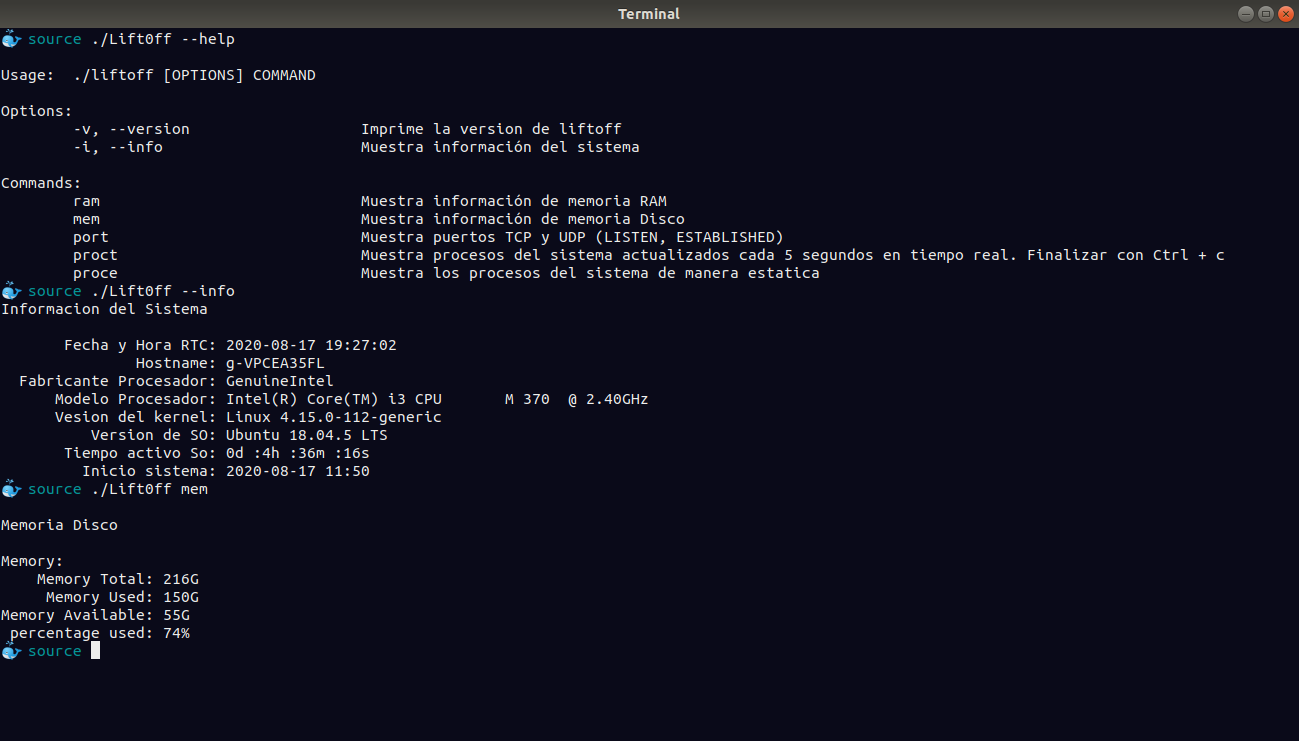
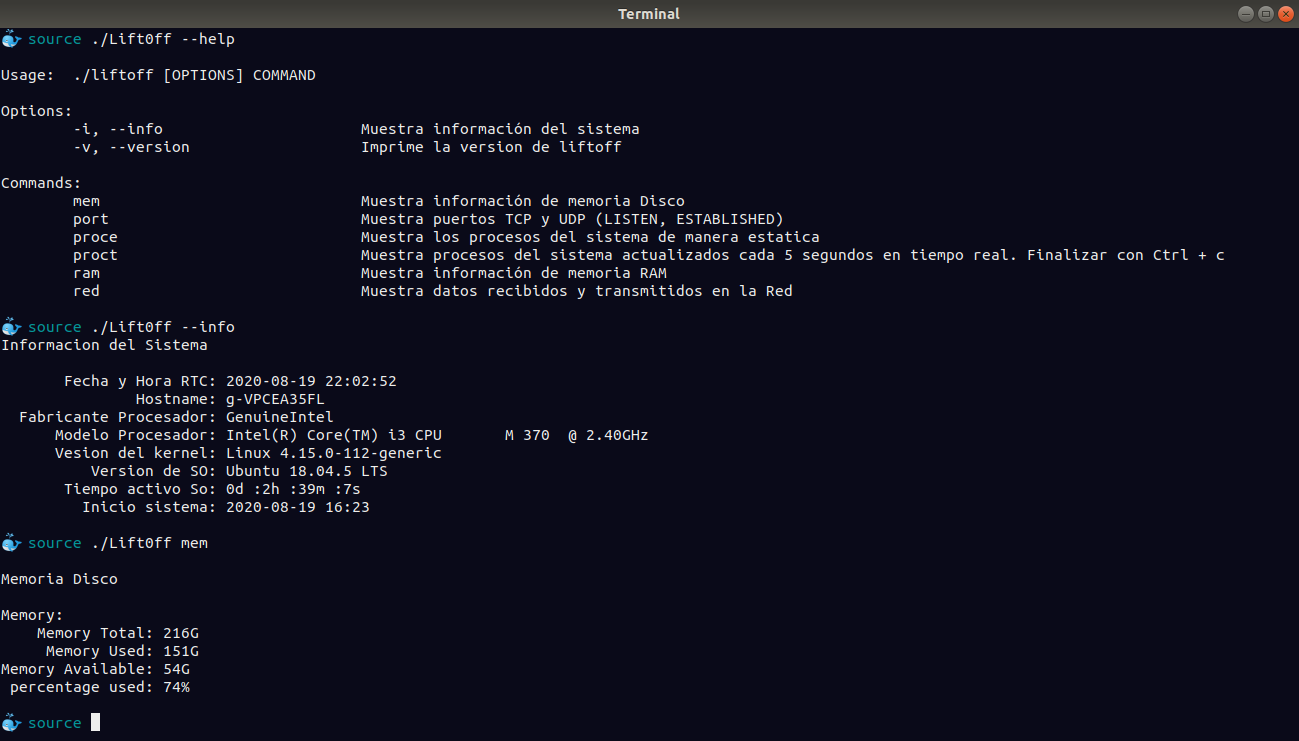
Agregue funcionalidad para mostrar los datos recibidos y enviados por la red, ademas actualice el archivo README.md

diff --git a/source/Lift0ff.go b/source/Lift0ff.go
@@ -2,11 +2,17 @@ package main
 
 import (
 	"bufio"
+	"container/list"
 	"fmt"
 	"math"
 	"os"
 	"os/exec"
+	"reflect"
+	"regexp"
 	"strings"
+
+	"github.com/fatih/color"
+	"github.com/rodaine/table"
 )
 
 func execComand(com *exec.Cmd) {
@@ -180,6 +186,48 @@ func memDisk() (string, string, string, string) {
 	return m2, m3, m4, m5
 }
 
+func networkData() *list.List {
+	n1, n2, n3, n4, n5, n6, n7, n8 := "", "", "", "", "", "", "", ""
+	listaRed := list.New()
+	red := make([]string, 9)
+	file, err := os.Open("/proc/net/dev")
+	if err != nil {
+		fmt.Println(err)
+	}
+	defer file.Close()
+	scanner := bufio.NewScanner(file)
+	for i := 0; scanner.Scan() == true; i++ {
+		if i > 1 {
+			ndata := strings.TrimSpace(scanner.Text())
+			space := regexp.MustCompile(`\s+`)
+			noSpaces := space.ReplaceAllString(ndata, " ")
+			netData := strings.Split(noSpaces, " ")
+
+			interfaz := netData[0:1]
+			download := netData[1:5]
+			upload := netData[9:13]
+
+			intfz := strings.Join(interfaz, "")
+			intfz = intfz[:len(intfz)-1]
+			downl := strings.Join(download, " ")
+			upl := strings.Join(upload, " ")
+
+			_, er1 := fmt.Sscanf(downl, "%s %s %s %s", &n1, &n2, &n3, &n4)
+			if er1 != nil {
+				fmt.Println(er1)
+			}
+			_, er2 := fmt.Sscanf(upl, "%s %s %s %s", &n5, &n6, &n7, &n8)
+			if er2 != nil {
+				fmt.Println(er2)
+			}
+			red[0], red[1], red[2], red[3], red[4], red[5], red[6], red[7], red[8] = intfz, n1, n2, n3, n4, n5, n6, n7, n8
+			listaRed.PushBack(red)
+			red = []string{"", "", "", "", "", "", "", "", ""}
+		}
+	}
+	return listaRed
+}
+
 func main() {
 	argsConProg := os.Args
 	if len(argsConProg) == 1 {
@@ -191,22 +239,15 @@ func main() {
 	case "-h", "--help":
 		fmt.Println("\nUsage:	./liftoff [OPTIONS] COMMAND")
 		fmt.Println("\nOptions:")
-		fmt.Println("	-v, --version			Imprime la version de liftoff")
 		fmt.Println("	-i, --info			Muestra información del sistema")
+		fmt.Println("	-v, --version			Imprime la version de liftoff")
 		fmt.Println("\nCommands:")
-		fmt.Println("	ram				Muestra información de memoria RAM")
 		fmt.Println("	mem				Muestra información de memoria Disco")
 		fmt.Println("	port				Muestra puertos TCP y UDP (LISTEN, ESTABLISHED)")
-		fmt.Println("	proct			    	Muestra procesos del sistema actualizados cada 5 segundos en tiempo real. Finalizar con Ctrl + c")
 		fmt.Println("	proce			    	Muestra los procesos del sistema de manera estatica")
-	case "-v", "--version":
-		fmt.Println(" _        _    __   _              __    __  ")
-		fmt.Println("| |      (_)  / _| | |            / _|  / _| ")
-		fmt.Println("| |       _  | |_  | |_    ____  | |_  | |_  ")
-		fmt.Println("| |      | | |  _| | __|  / _  ) |  _| |  _| ")
-		fmt.Println("| |____  | | | |   | |_  | (_) | | |   | |   ")
-		fmt.Println("|______| |_| |_|   |___| (____/  |_|   |_|   ")
-		fmt.Println("                                            Version 1.0.0 beta")
+		fmt.Println("	proct			    	Muestra procesos del sistema actualizados cada 5 segundos en tiempo real. Finalizar con Ctrl + c")
+		fmt.Println("	ram				Muestra información de memoria RAM")
+		fmt.Println("	red				Muestra datos recibidos y transmitidos en la Red\n")
 	case "-i", "--info":
 		fmt.Println("Informacion del Sistema\n")
 		fmt.Println("       Fecha y Hora RTC:", simpleData("/proc/driver/rtc", "rtc_date"), simpleData("/proc/driver/rtc", "rtc_time"))
@@ -223,7 +264,33 @@ func main() {
 		segundos := int(((((tA / 3600) - float64(horas)) * 60) - float64(minutos)) * 60)
 		fmt.Printf("       Tiempo activo So: %vd :%vh :%vm :%vs \n", dias, horas, minutos, segundos)
 		f1, f2 := fechaInicioSistema(exec.Command("who", "-b"))
-		fmt.Println("	 Inicio sistema:", f1, f2)
+		fmt.Printf("	 Inicio sistema: %s %s\n\n", f1, f2)
+	case "-v", "--version":
+		fmt.Println()
+		fmt.Println(" _        _    __   _              __    __  ")
+		fmt.Println("| |      (_)  / _| | |            / _|  / _| ")
+		fmt.Println("| |       _  | |_  | |_    ____  | |_  | |_  ")
+		fmt.Println("| |      | | |  _| | __|  / _  ) |  _| |  _| ")
+		fmt.Println("| |____  | | | |   | |_  | (_) | | |   | |   ")
+		fmt.Println("|______| |_| |_|   |___| (____/  |_|   |_|   ")
+		fmt.Println("                                            Version 1.0.0 beta\n")
+	case "mem":
+		m1, m2, m3, m4 := memDisk()
+		fmt.Println("\nMemoria Disco\n")
+		fmt.Println("Memory:")
+		fmt.Println("    Memory Total:", m1)
+		fmt.Println("     Memory Used:", m2)
+		fmt.Println("Memory Available:", m3)
+		fmt.Printf(" percentage used: %s\n\n", m4)
+	case "port":
+		execComand(exec.Command("sudo", "lsof", "-i", "-P"))
+		fmt.Println()
+	case "proct":
+		execComand(exec.Command("top", "-d", "5"))
+		fmt.Println()
+	case "proce":
+		execComand(exec.Command("ps", "aux"))
+		fmt.Println()
 	case "ram":
 		fmt.Println("\nMemoria RAM\n")
 		fmt.Println("Memory:")
@@ -239,21 +306,30 @@ func main() {
 		memSwapFree := memInfo("SwapFree:")
 		fmt.Println("     Total Swap:", math.Round(memTotalSwap*0.000001*100)/100, "GiB")
 		fmt.Println("      Swap Used:", math.Round((memTotalSwap-memSwapFree)*0.000001*100)/100, "GiB")
-		fmt.Println("      Swap Free:", math.Round(memSwapFree*0.000001*100)/100, "GiB")
-	case "mem":
-		m1, m2, m3, m4 := memDisk()
-		fmt.Println("\nMemoria Disco\n")
-		fmt.Println("Memory:")
-		fmt.Println("    Memory Total:", m1)
-		fmt.Println("     Memory Used:", m2)
-		fmt.Println("Memory Available:", m3)
-		fmt.Println(" percentage used:", m4)
-	case "proct":
-		execComand(exec.Command("top", "-d", "5"))
-	case "proce":
-		execComand(exec.Command("ps", "aux"))
-	case "port":
-		execComand(exec.Command("sudo", "lsof", "-i", "-P"))
+		fmt.Println("      Swap Free:", math.Round(memSwapFree*0.000001*100)/100, "GiB", "\n")
+	case "red":
+		fmt.Println("\nDatos de Red\n")
+		fmt.Println("Datos Recibidos:")
+
+		headerFmt := color.New(color.FgGreen, color.Underline).SprintfFunc()
+		columnFmt := color.New(color.FgHiRed).SprintfFunc()
+
+		tbld := table.New("Interface", "bytes", "packets", "errs", "drop")
+		tbld.WithHeaderFormatter(headerFmt).WithFirstColumnFormatter(columnFmt)
+
+		tblu := table.New("Interface", "bytes", "packets", "errs", "drop")
+		tblu.WithHeaderFormatter(headerFmt).WithFirstColumnFormatter(columnFmt)
+
+		listaRed := networkData()
+		for temp := listaRed.Front(); temp != nil; temp = temp.Next() {
+			s := reflect.ValueOf(temp.Value)
+			tbld.AddRow(s.Index(0), s.Index(1), s.Index(2), s.Index(3), s.Index(4))
+			tblu.AddRow(s.Index(0), s.Index(5), s.Index(6), s.Index(7), s.Index(8))
+		}
+		tbld.Print()
+		fmt.Println("\nDatos Transmitidos:")
+		tblu.Print()
+		fmt.Println()
 	default:
 		fmt.Println("\n	Ejecute ./liftoff --help, para ver los comandos validos\n")
 	}

diff --git a/README.md b/README.md
@@ -14,7 +14,7 @@
 
 # Lift0ff
 
-**Lift0ff** es una aplicación binaria que permite conocer métricas del sistema como: memoria ram, memoria disco, procesos, puertos e información general del sistema operativo Linux.
+**Lift0ff** es una aplicación binaria que permite conocer métricas del sistema como: memoria ram, memoria disco, procesos, puertos, datos de la red e información en general del sistema operativo Linux.
 
 
 ## Screenshots
@@ -39,7 +39,8 @@ Las dependencias con las que cuenta Lift0ff son:
 - [x] Process Status **ps**, necesario para mostrar los procesos activos Pc. Verificar binario instalado: ***which ps***
 - [x] List Of Open File **lsof**, necesario para mostrar los puertos de Pc. Verificar binario instalado: ***which lsof***
 - [x] Directorio **/proc** para recopilar datos
-
+- [x] Instalar paquetes de Go para mostrar tablas: ***go get github.com/rodaine/table*** y ***go get github.com/fatih/color***
+ 
 
 ## Instalación y Ejecución
 
